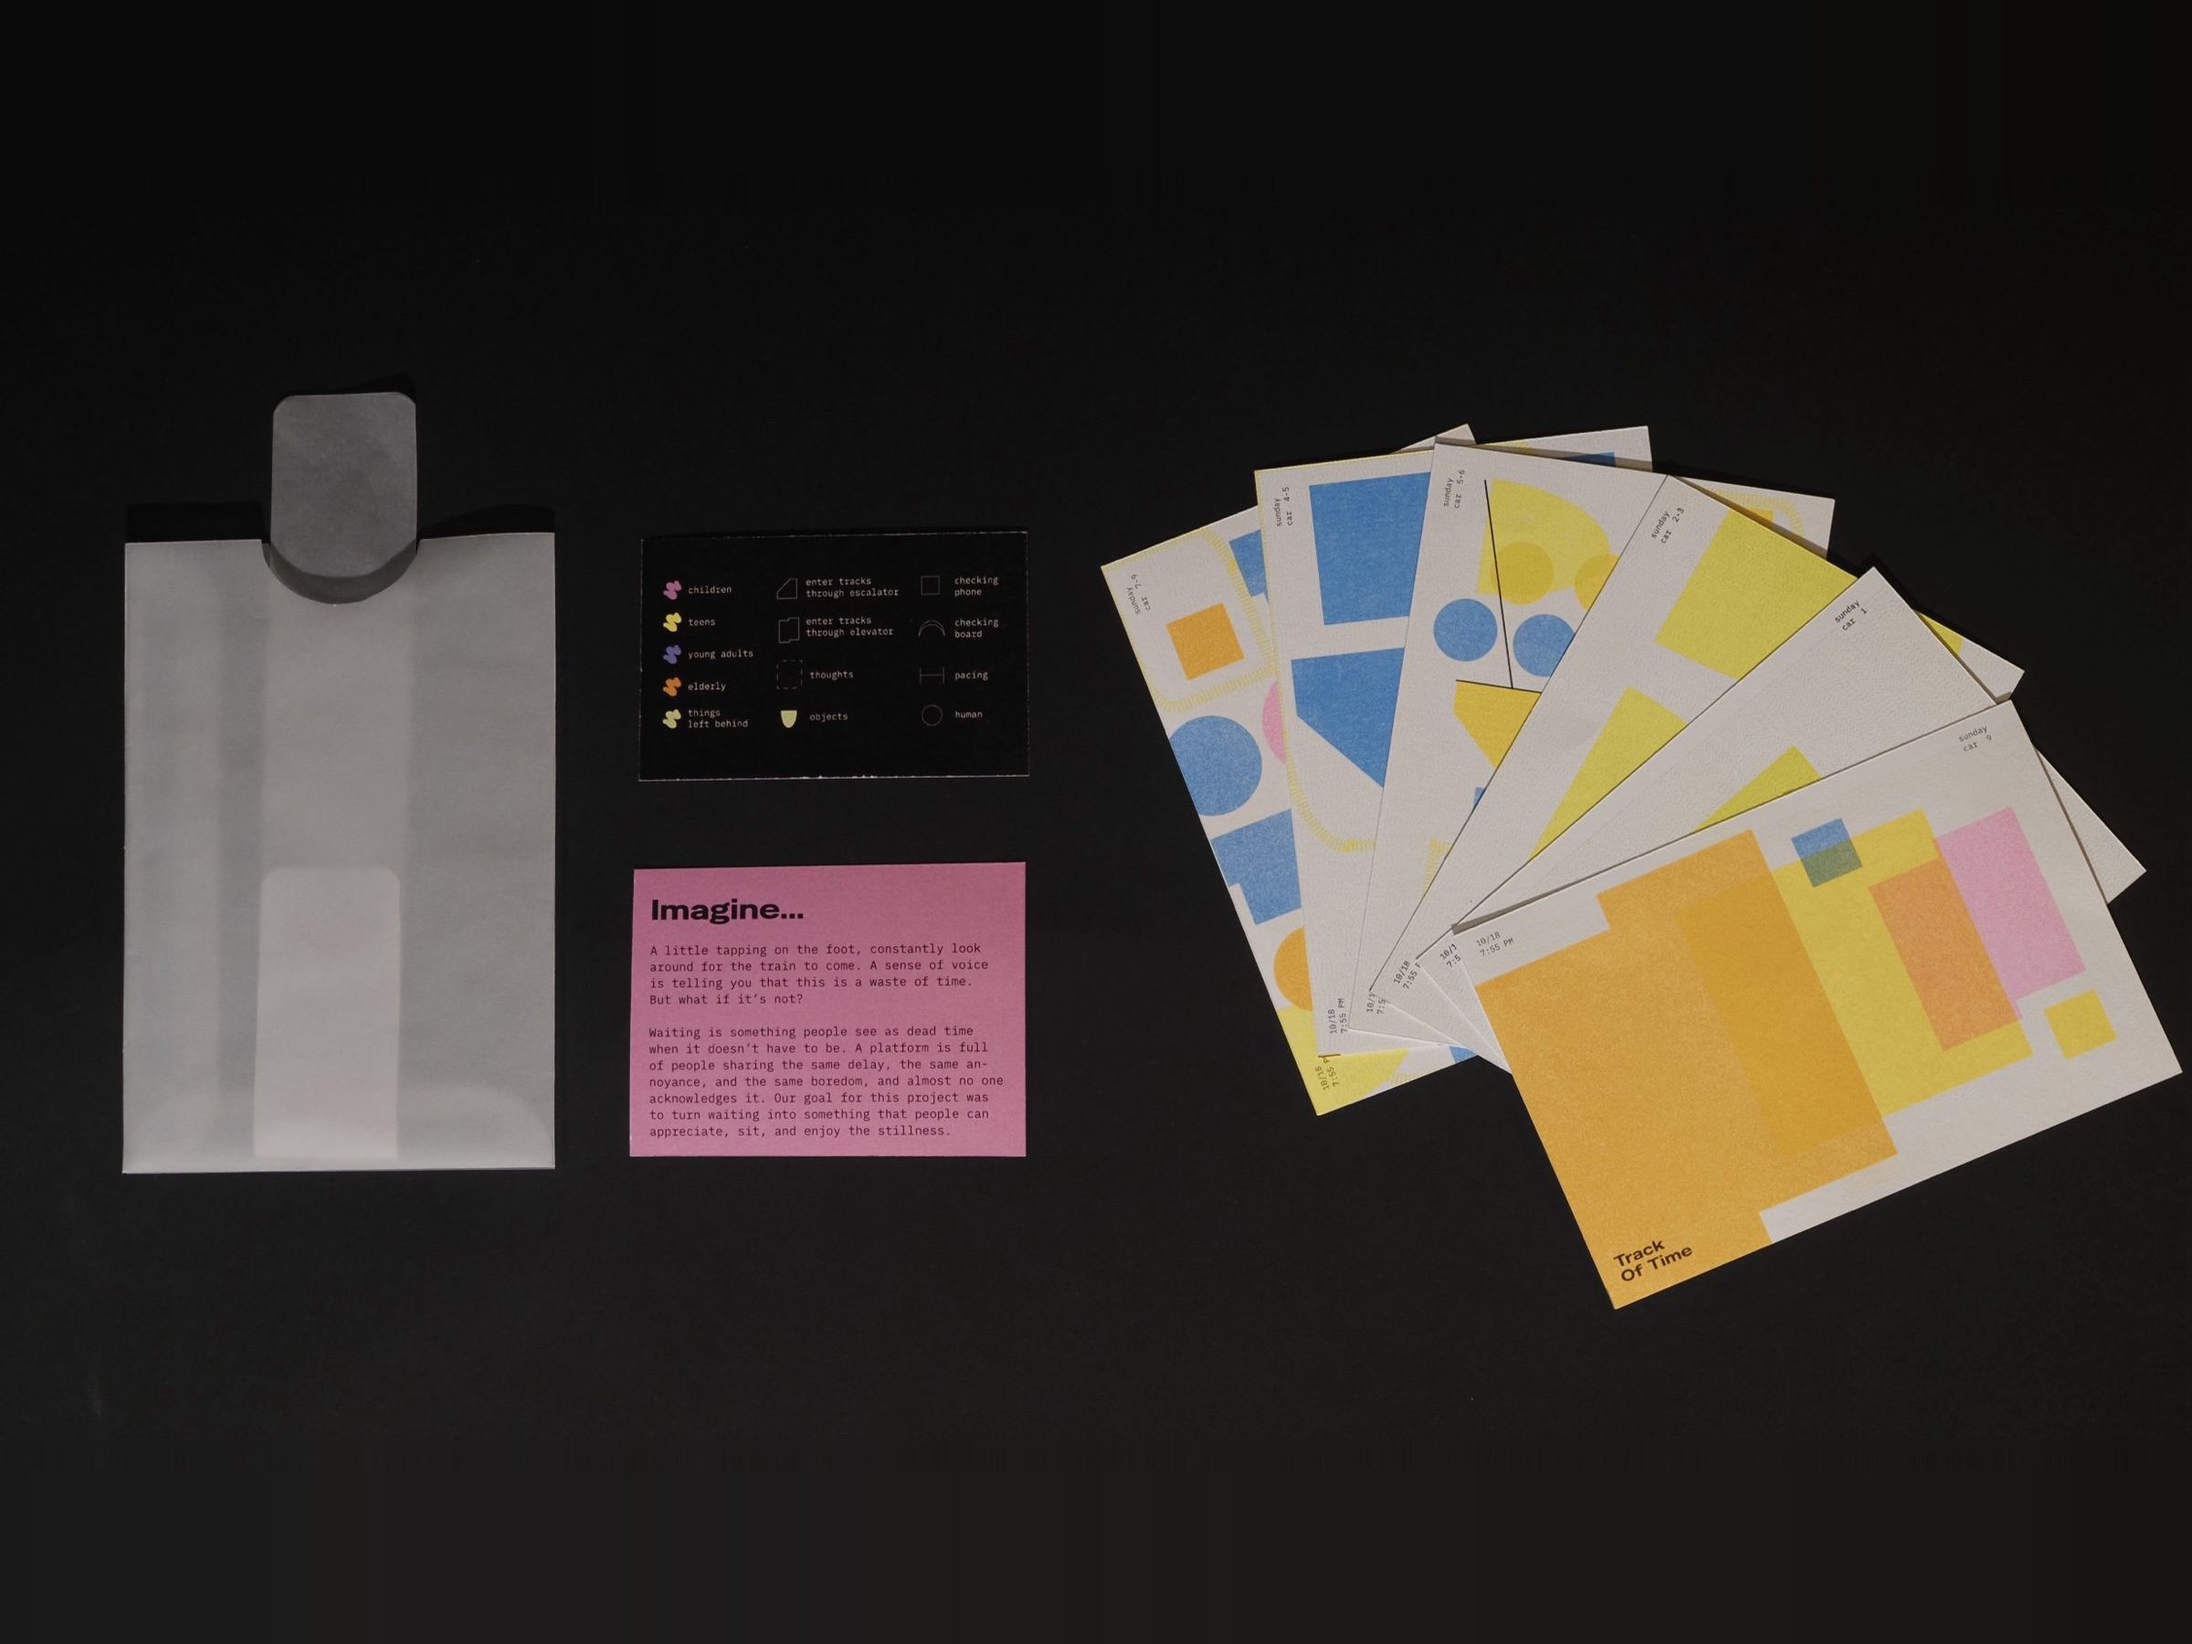
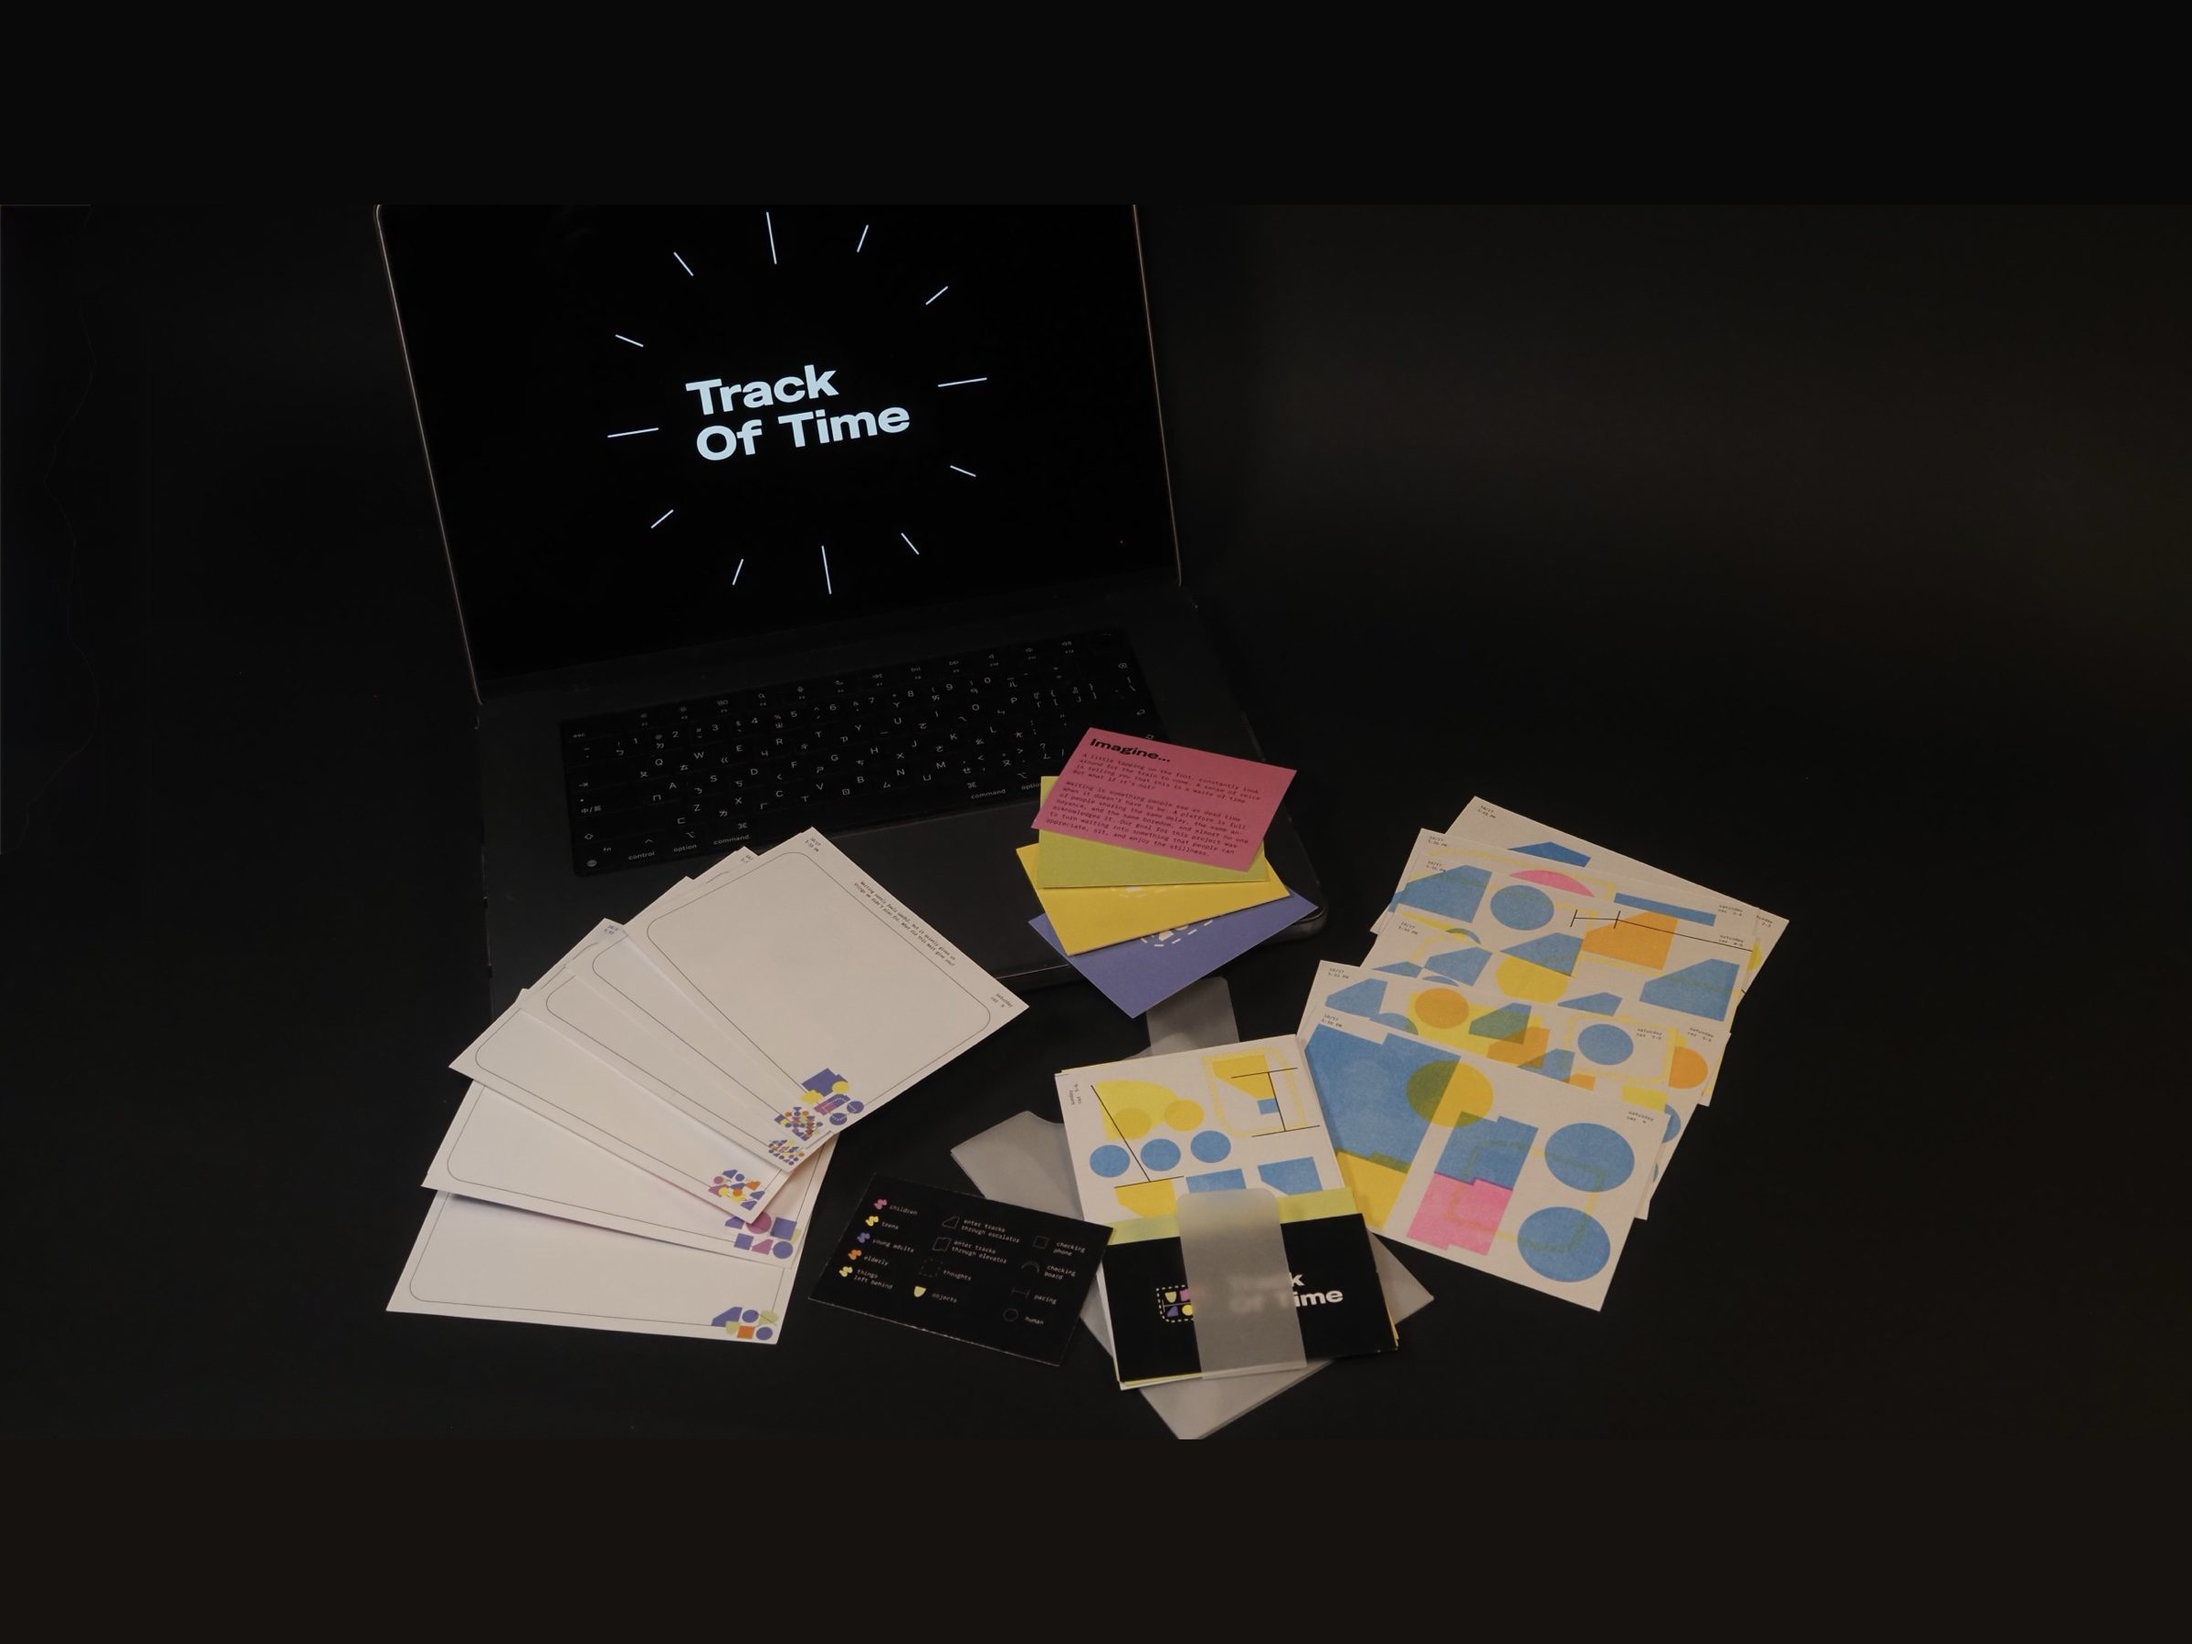
Track of Time cover

diff --git a/assets/projects.js b/assets/projects.js
@@ -6,6 +6,7 @@
   cover: made from the include/ file with "cover" in its name. with no such file,
   name any image here and it is used for the home-page card only.
   website, credits, problem and solution ({ title, text }) are optional.
+  keep_order: true leaves images in the order listed instead of opening with the cover.
   images: files inside assets/img/<slug>/ ; the first one is the hero.
   wrap files in [ ] to show them side by side at the same height; .mp4 files
   play as looping videos. images are never cropped, except
@@ -32,9 +33,10 @@ window.PROJECTS = [
       title: "Small Cards for a Shared Pause",
       text: "A set of risograph cards handed out on the platform. Riders write about their own wait on the back of a card, which turns a few idle minutes into a record that strangers waiting with them can share.",
     },
-    cover: "pb059851.jpg",
+    cover: "cover.jpg",
+    keep_order: true,
     card: "card.jpg",
-    images: ["track-of-time-motion.mp4", "clock-ending.mp4", "pb059876.jpg", ["pb059851.jpg", "pb050281.jpg"], ["pb059647.jpg", "pb059731.jpg"], ["pb059761.jpg", "pb050426.jpg"], ["pb050367.jpg", "pb050373.jpg"], ["track-of-time-color-palette.jpg", "pb050526.jpg"]],
+    images: ["track-of-time-motion.mp4", "clock-ending.mp4", "pb059876.jpg", ["pb059851.jpg", "cover.jpg"], ["pb059647.jpg", "pb059731.jpg"], ["pb059761.jpg", "pb050426.jpg"], ["pb050367.jpg", "pb050373.jpg"], ["track-of-time-color-palette.jpg", "pb050526.jpg"]],
   },
   {
     slug: "design-justice-network-principles",
@@ -147,4 +149,4 @@ window.PROJECTS = [
     images: ["cover.jpg", "pinklogosoap.jpg", "greenlogosoap.jpg", "print-layouts.jpg", "screenshot-2026-10-14-at-9-07-05-pm.jpg"],
   },
 ];
-window.MEDIA_VERSION = "1793928354";
+window.MEDIA_VERSION = "1793928605";

diff --git a/projects/design-justice-network-principles/index.html b/projects/design-justice-network-principles/index.html
@@ -13,12 +13,12 @@
 <link rel="preconnect" href="https://fonts.googleapis.com">
 <link rel="preconnect" href="https://fonts.gstatic.com" crossorigin>
 <link href="https://fonts.googleapis.com/css2?family=Funnel+Sans:wght@400;500;700&family=Geist:wght@400&family=Inter:wght@500&display=swap" rel="stylesheet">
-<link rel="stylesheet" href="../../assets/style.css?v=9">
+<link rel="stylesheet" href="../../assets/style.css?v=10">
 </head>
 <body data-page="project" data-slug="design-justice-network-principles" data-root="../../">
 <main data-project></main>
 <script src="https://cdn.jsdelivr.net/npm/lenis@1.1.13/dist/lenis.min.js"></script>
-<script src="../../assets/projects.js?v=9"></script>
-<script src="../../assets/main.js?v=9"></script>
+<script src="../../assets/projects.js?v=10"></script>
+<script src="../../assets/main.js?v=10"></script>
 </body>
 </html>

diff --git a/index.html b/index.html
@@ -13,7 +13,7 @@
 <link rel="preconnect" href="https://fonts.googleapis.com">
 <link rel="preconnect" href="https://fonts.gstatic.com" crossorigin>
 <link href="https://fonts.googleapis.com/css2?family=Funnel+Sans:wght@400;500;700&family=Geist:wght@400&family=Inter:wght@500&display=swap" rel="stylesheet">
-<link rel="stylesheet" href="./assets/style.css?v=9">
+<link rel="stylesheet" href="./assets/style.css?v=10">
 </head>
 <body data-page="home" data-root="./">
 <main>
@@ -24,7 +24,7 @@
   <section class="grid" data-grid aria-label="projects"></section>
 </main>
 <script src="https://cdn.jsdelivr.net/npm/lenis@1.1.13/dist/lenis.min.js"></script>
-<script src="./assets/projects.js?v=9"></script>
-<script src="./assets/main.js?v=9"></script>
+<script src="./assets/projects.js?v=10"></script>
+<script src="./assets/main.js?v=10"></script>
 </body>
 </html>

diff --git a/projects/what-we-see-when-we-read/index.html b/projects/what-we-see-when-we-read/index.html
@@ -13,12 +13,12 @@
 <link rel="preconnect" href="https://fonts.googleapis.com">
 <link rel="preconnect" href="https://fonts.gstatic.com" crossorigin>
 <link href="https://fonts.googleapis.com/css2?family=Funnel+Sans:wght@400;500;700&family=Geist:wght@400&family=Inter:wght@500&display=swap" rel="stylesheet">
-<link rel="stylesheet" href="../../assets/style.css?v=9">
+<link rel="stylesheet" href="../../assets/style.css?v=10">
 </head>
 <body data-page="project" data-slug="what-we-see-when-we-read" data-root="../../">
 <main data-project></main>
 <script src="https://cdn.jsdelivr.net/npm/lenis@1.1.13/dist/lenis.min.js"></script>
-<script src="../../assets/projects.js?v=9"></script>
-<script src="../../assets/main.js?v=9"></script>
+<script src="../../assets/projects.js?v=10"></script>
+<script src="../../assets/main.js?v=10"></script>
 </body>
 </html>

diff --git a/projects/cca-book-covers/index.html b/projects/cca-book-covers/index.html
@@ -13,12 +13,12 @@
 <link rel="preconnect" href="https://fonts.googleapis.com">
 <link rel="preconnect" href="https://fonts.gstatic.com" crossorigin>
 <link href="https://fonts.googleapis.com/css2?family=Funnel+Sans:wght@400;500;700&family=Geist:wght@400&family=Inter:wght@500&display=swap" rel="stylesheet">
-<link rel="stylesheet" href="../../assets/style.css?v=9">
+<link rel="stylesheet" href="../../assets/style.css?v=10">
 </head>
 <body data-page="project" data-slug="cca-book-covers" data-root="../../">
 <main data-project></main>
 <script src="https://cdn.jsdelivr.net/npm/lenis@1.1.13/dist/lenis.min.js"></script>
-<script src="../../assets/projects.js?v=9"></script>
-<script src="../../assets/main.js?v=9"></script>
+<script src="../../assets/projects.js?v=10"></script>
+<script src="../../assets/main.js?v=10"></script>
 </body>
 </html>

diff --git a/projects/nyc-card-deck/index.html b/projects/nyc-card-deck/index.html
@@ -13,12 +13,12 @@
 <link rel="preconnect" href="https://fonts.googleapis.com">
 <link rel="preconnect" href="https://fonts.gstatic.com" crossorigin>
 <link href="https://fonts.googleapis.com/css2?family=Funnel+Sans:wght@400;500;700&family=Geist:wght@400&family=Inter:wght@500&display=swap" rel="stylesheet">
-<link rel="stylesheet" href="../../assets/style.css?v=9">
+<link rel="stylesheet" href="../../assets/style.css?v=10">
 </head>
 <body data-page="project" data-slug="nyc-card-deck" data-root="../../">
 <main data-project></main>
 <script src="https://cdn.jsdelivr.net/npm/lenis@1.1.13/dist/lenis.min.js"></script>
-<script src="../../assets/projects.js?v=9"></script>
-<script src="../../assets/main.js?v=9"></script>
+<script src="../../assets/projects.js?v=10"></script>
+<script src="../../assets/main.js?v=10"></script>
 </body>
 </html>

diff --git a/projects/track-of-time/index.html b/projects/track-of-time/index.html
@@ -13,12 +13,12 @@
 <link rel="preconnect" href="https://fonts.googleapis.com">
 <link rel="preconnect" href="https://fonts.gstatic.com" crossorigin>
 <link href="https://fonts.googleapis.com/css2?family=Funnel+Sans:wght@400;500;700&family=Geist:wght@400&family=Inter:wght@500&display=swap" rel="stylesheet">
-<link rel="stylesheet" href="../../assets/style.css?v=9">
+<link rel="stylesheet" href="../../assets/style.css?v=10">
 </head>
 <body data-page="project" data-slug="track-of-time" data-root="../../">
 <main data-project></main>
 <script src="https://cdn.jsdelivr.net/npm/lenis@1.1.13/dist/lenis.min.js"></script>
-<script src="../../assets/projects.js?v=9"></script>
-<script src="../../assets/main.js?v=9"></script>
+<script src="../../assets/projects.js?v=10"></script>
+<script src="../../assets/main.js?v=10"></script>
 </body>
 </html>

diff --git a/projects/type-specimen/index.html b/projects/type-specimen/index.html
@@ -13,12 +13,12 @@
 <link rel="preconnect" href="https://fonts.googleapis.com">
 <link rel="preconnect" href="https://fonts.gstatic.com" crossorigin>
 <link href="https://fonts.googleapis.com/css2?family=Funnel+Sans:wght@400;500;700&family=Geist:wght@400&family=Inter:wght@500&display=swap" rel="stylesheet">
-<link rel="stylesheet" href="../../assets/style.css?v=9">
+<link rel="stylesheet" href="../../assets/style.css?v=10">
 </head>
 <body data-page="project" data-slug="type-specimen" data-root="../../">
 <main data-project></main>
 <script src="https://cdn.jsdelivr.net/npm/lenis@1.1.13/dist/lenis.min.js"></script>
-<script src="../../assets/projects.js?v=9"></script>
-<script src="../../assets/main.js?v=9"></script>
+<script src="../../assets/projects.js?v=10"></script>
+<script src="../../assets/main.js?v=10"></script>
 </body>
 </html>

diff --git a/projects/rainshower/index.html b/projects/rainshower/index.html
@@ -13,12 +13,12 @@
 <link rel="preconnect" href="https://fonts.googleapis.com">
 <link rel="preconnect" href="https://fonts.gstatic.com" crossorigin>
 <link href="https://fonts.googleapis.com/css2?family=Funnel+Sans:wght@400;500;700&family=Geist:wght@400&family=Inter:wght@500&display=swap" rel="stylesheet">
-<link rel="stylesheet" href="../../assets/style.css?v=9">
+<link rel="stylesheet" href="../../assets/style.css?v=10">
 </head>
 <body data-page="project" data-slug="rainshower" data-root="../../">
 <main data-project></main>
 <script src="https://cdn.jsdelivr.net/npm/lenis@1.1.13/dist/lenis.min.js"></script>
-<script src="../../assets/projects.js?v=9"></script>
-<script src="../../assets/main.js?v=9"></script>
+<script src="../../assets/projects.js?v=10"></script>
+<script src="../../assets/main.js?v=10"></script>
 </body>
 </html>

diff --git a/projects/water/index.html b/projects/water/index.html
@@ -13,12 +13,12 @@
 <link rel="preconnect" href="https://fonts.googleapis.com">
 <link rel="preconnect" href="https://fonts.gstatic.com" crossorigin>
 <link href="https://fonts.googleapis.com/css2?family=Funnel+Sans:wght@400;500;700&family=Geist:wght@400&family=Inter:wght@500&display=swap" rel="stylesheet">
-<link rel="stylesheet" href="../../assets/style.css?v=9">
+<link rel="stylesheet" href="../../assets/style.css?v=10">
 </head>
 <body data-page="project" data-slug="water" data-root="../../">
 <main data-project></main>
 <script src="https://cdn.jsdelivr.net/npm/lenis@1.1.13/dist/lenis.min.js"></script>
-<script src="../../assets/projects.js?v=9"></script>
-<script src="../../assets/main.js?v=9"></script>
+<script src="../../assets/projects.js?v=10"></script>
+<script src="../../assets/main.js?v=10"></script>
 </body>
 </html>

diff --git a/projects/clix/index.html b/projects/clix/index.html
@@ -13,12 +13,12 @@
 <link rel="preconnect" href="https://fonts.googleapis.com">
 <link rel="preconnect" href="https://fonts.gstatic.com" crossorigin>
 <link href="https://fonts.googleapis.com/css2?family=Funnel+Sans:wght@400;500;700&family=Geist:wght@400&family=Inter:wght@500&display=swap" rel="stylesheet">
-<link rel="stylesheet" href="../../assets/style.css?v=9">
+<link rel="stylesheet" href="../../assets/style.css?v=10">
 </head>
 <body data-page="project" data-slug="clix" data-root="../../">
 <main data-project></main>
 <script src="https://cdn.jsdelivr.net/npm/lenis@1.1.13/dist/lenis.min.js"></script>
-<script src="../../assets/projects.js?v=9"></script>
-<script src="../../assets/main.js?v=9"></script>
+<script src="../../assets/projects.js?v=10"></script>
+<script src="../../assets/main.js?v=10"></script>
 </body>
 </html>

diff --git a/about/index.html b/about/index.html
@@ -13,7 +13,7 @@
 <link rel="preconnect" href="https://fonts.googleapis.com">
 <link rel="preconnect" href="https://fonts.gstatic.com" crossorigin>
 <link href="https://fonts.googleapis.com/css2?family=Funnel+Sans:wght@400;500;700&family=Geist:wght@400&family=Inter:wght@500&display=swap" rel="stylesheet">
-<link rel="stylesheet" href="../assets/style.css?v=9">
+<link rel="stylesheet" href="../assets/style.css?v=10">
 </head>
 <body data-page="about" data-root="../">
 <main class="page-top">
@@ -61,7 +61,7 @@
   </section>
 </main>
 <script src="https://cdn.jsdelivr.net/npm/lenis@1.1.13/dist/lenis.min.js"></script>
-<script src="../assets/projects.js?v=9"></script>
-<script src="../assets/main.js?v=9"></script>
+<script src="../assets/projects.js?v=10"></script>
+<script src="../assets/main.js?v=10"></script>
 </body>
 </html>
